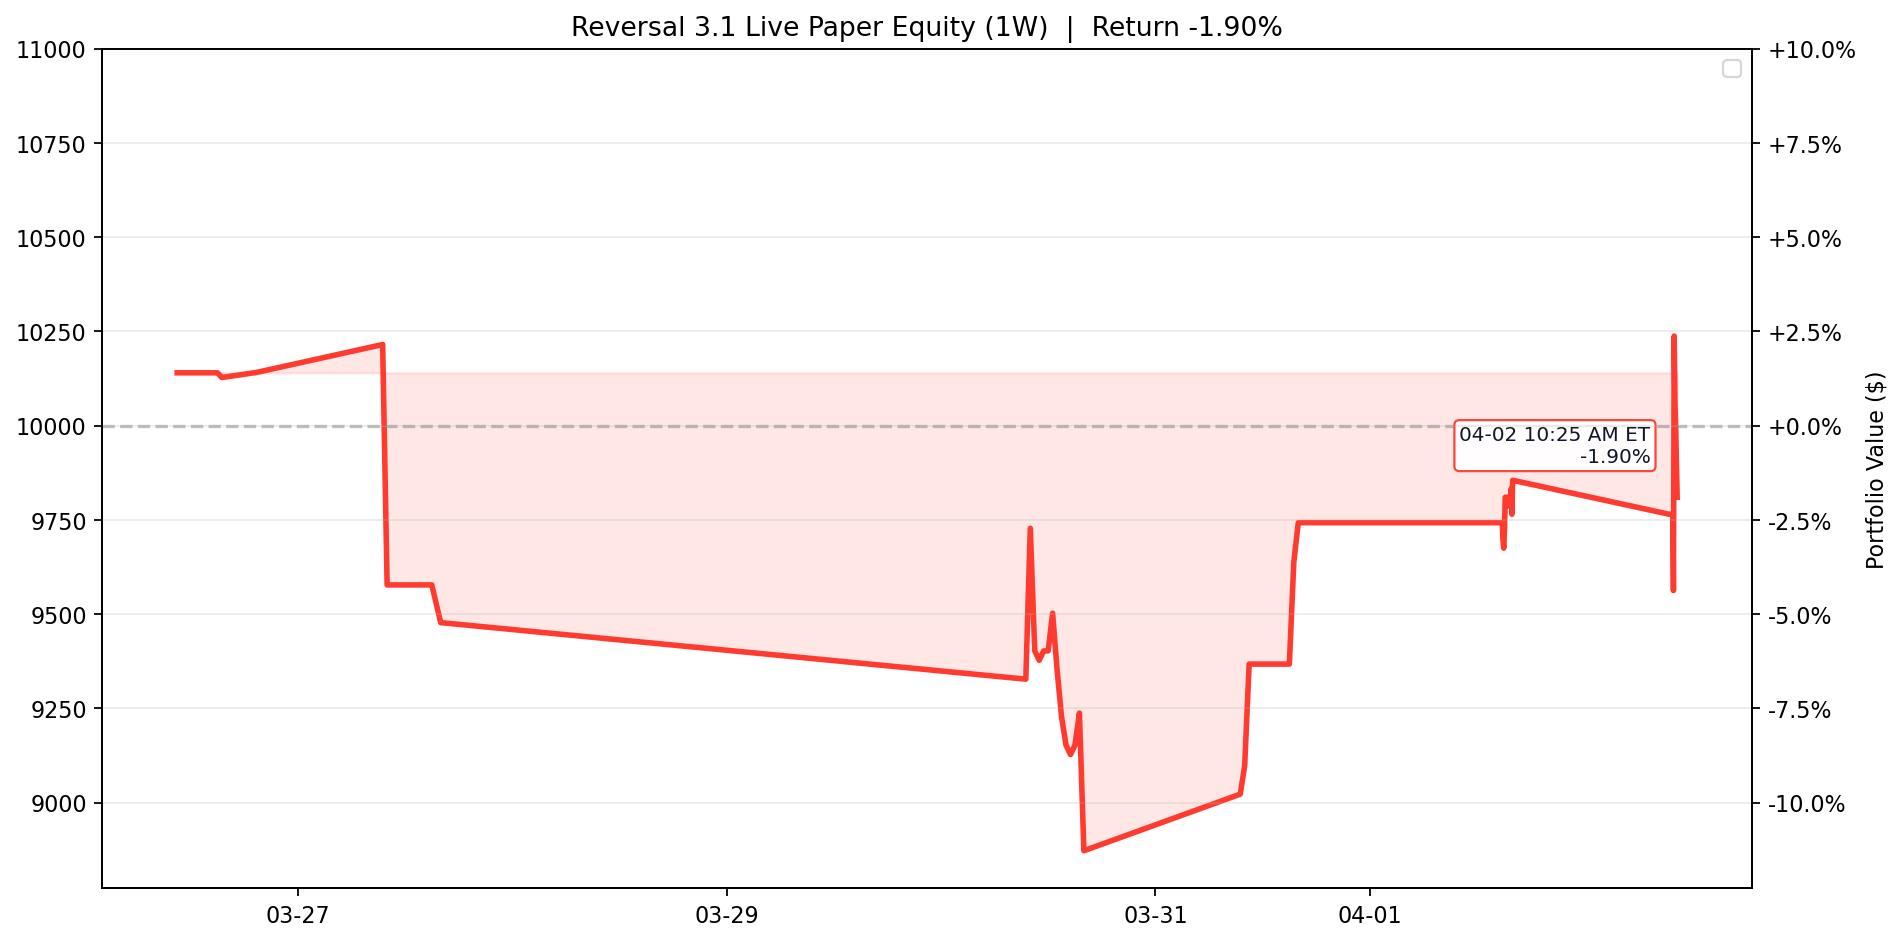
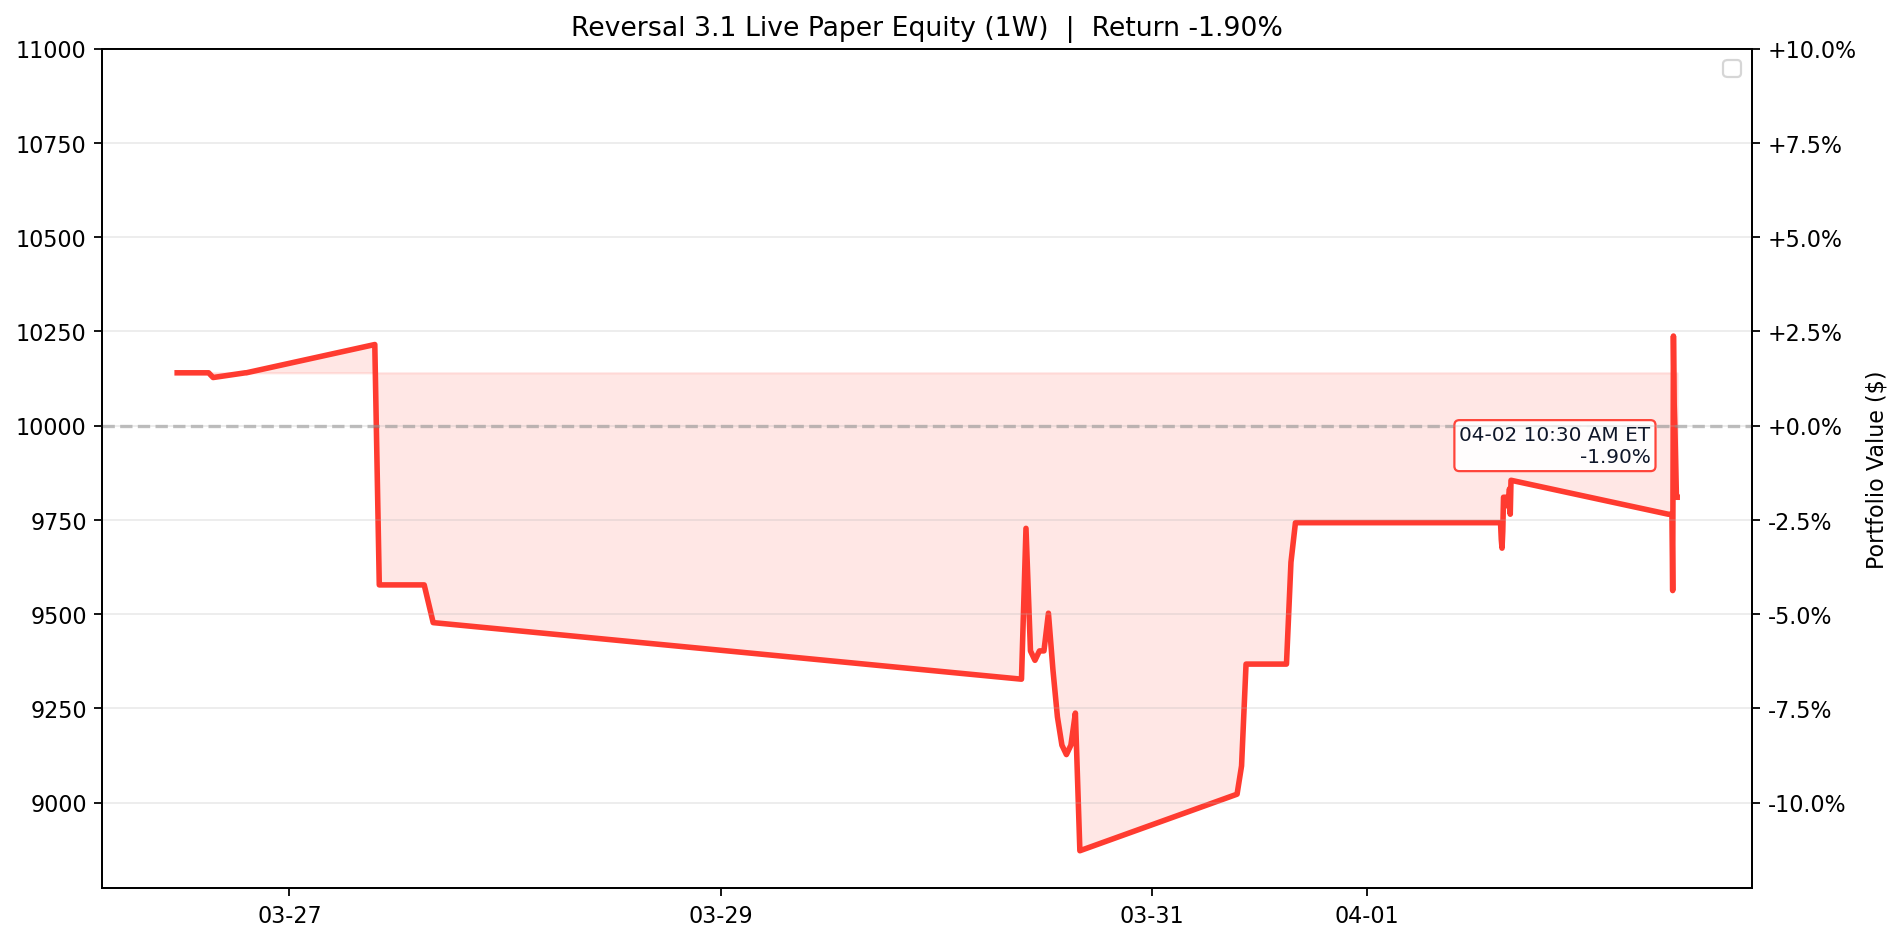
Update Reversal 3.1 live paper test 2026-04-02 10:30 ET

diff --git a/results/reversal_3_1_live/README.md b/results/reversal_3_1_live/README.md
@@ -1,6 +1,6 @@
 # Reversal 3.1 Live Paper Test
 
-Last updated (ET): `2026-04-02 10:25:05 EDT`
+Last updated (ET): `2026-04-02 10:30:05 EDT`
 Last processed slot: `manage_1030`
 
 ## Active Configuration
@@ -29,7 +29,7 @@ Last processed slot: `manage_1030`
 
 ```text
 ticker     contract_symbol entry_trade_date  business_days_held  entry_option_price  current_option_price  entry_spot  current_spot  unrealized_pnl  unrealized_return_pct  success_rate  matched_signals  current_drop_pct  entry_iv_pct  current_iv_pct  rolling_sigma_20d_pct
-  NFLX NFLX260508C00096000       2026-04-01                   1                4.88                  4.95       95.56         96.69            67.5                   1.54         94.87               39              0.58         41.74           37.99                  24.42
+  NFLX NFLX260508C00096000       2026-04-01                   1                4.88                  4.95       95.56         96.75            67.5                   1.54         94.87               39              0.58         41.74           37.74                  24.42
 ```
 
 ## Today's Closed Trades (2026-04-02)
@@ -40,24 +40,25 @@ _None_
 
 ```text
 ticker  success_rate_%  matched_signals  current_drop_%  target_rebound_$  target_price  rolling_sigma_20d_%  call_candidate
-  TSLA          100.00               12            3.54              9.46        377.21                40.57            True
-   WDC           96.00               25            3.51              7.32        294.59                91.06            True
-   STX           94.44               36            1.49              4.42        421.23                80.16            True
-  SBUX           94.12               34            0.65              0.41         90.25                36.02            True
-  ROST           92.59               27            0.60              0.92        219.56                21.27            True
-  DXCM           91.89               37            1.36              0.59         62.12                31.67            True
-  MRVL           91.67               24            2.27              1.69        105.98                92.70            True
-  NVDA           91.43               35            0.75              0.93        175.35                36.98            True
-  UPRO           91.30               23            2.19              1.52         98.52                57.18            True
-  AVGO           90.00               30            1.46              3.21        312.12                41.97            True
-  ORLY           88.57               35            0.74              0.48         91.90                22.81            True
-  PLTR           87.50               40            0.78              0.80        146.15                50.52            True
+   WDC           96.00               25            3.52              7.34        294.58                91.06            True
+  SBUX           94.59               37            0.50              0.32         90.29                36.02            True
+   STX           94.44               36            1.39              4.12        421.35                80.16            True
+  ROST           92.59               27            0.58              0.89        219.57                21.27            True
+  MRVL           91.67               24            2.23              1.67        106.00                92.70            True
+  UPRO           91.30               23            2.09              1.45         98.55                57.18            True
+  DXCM           91.18               34            1.56              0.68         62.08                31.67            True
+  NVDA           91.18               34            0.81              1.00        175.32                36.98            True
+  AVGO           88.89               27            1.68              3.68        311.91                41.97            True
+  MPWR           88.46               26            2.14             16.81       1112.31                56.57            True
+  ABNB           88.24               17            1.96              1.72        124.45                36.75            True
+  SNPS           87.80               41            0.89              2.48        395.68                35.88            True
 ```
 
 ## Recent Events
 
 ```text
                     timestamp_et         slot   event_type                          detail
+2026-04-02T10:30:05.885804-04:00  manage_1030 slot_skipped {"reason": "already_processed"}
 2026-04-02T10:25:05.890764-04:00  manage_1030 slot_skipped {"reason": "already_processed"}
 2026-04-02T10:10:05.923370-04:00  manage_1000 slot_skipped {"reason": "already_processed"}
 2026-04-02T10:05:05.400756-04:00  manage_1000 slot_skipped {"reason": "already_processed"}
@@ -67,7 +68,6 @@ ticker  success_rate_%  matched_signals  current_drop_%  target_rebound_$  targe
 2026-04-02T09:35:05.879902-04:00  manage_0930 slot_skipped {"reason": "already_processed"}
 2026-04-02T09:30:05.894961-04:00 data_refresh data_refresh                   {'saved': 99}
 2026-04-01T16:00:01.918138-04:00  manage_1600 slot_skipped {"reason": "already_processed"}
-2026-04-01T15:55:00.975857-04:00  manage_1600 slot_skipped {"reason": "already_processed"}
 ```
 
 ## Equity Curve (1W)

diff --git a/README.md b/README.md
@@ -3,7 +3,7 @@
 <!-- reversal-3.1-live:start -->
 ## Reversal 3.1 Live Paper Test
 
-- Last updated (ET): `2026-04-02 10:25:05 EDT`
+- Last updated (ET): `2026-04-02 10:30:05 EDT`
 - Equity: `$9,810.00` | Realized: `$-257.50` | Unrealized: `$67.50` | Open positions: `1`
 - Today closed trades: `0`
 - Current slot: `manage_1030`
